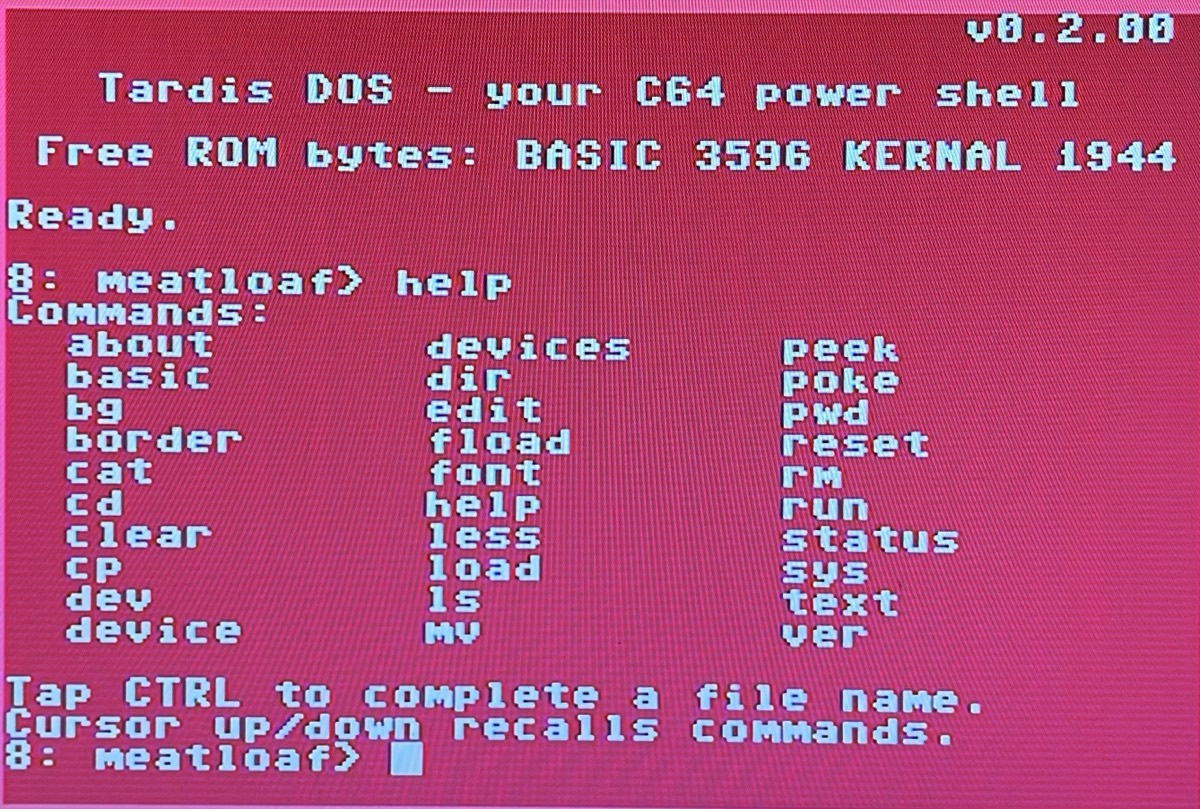
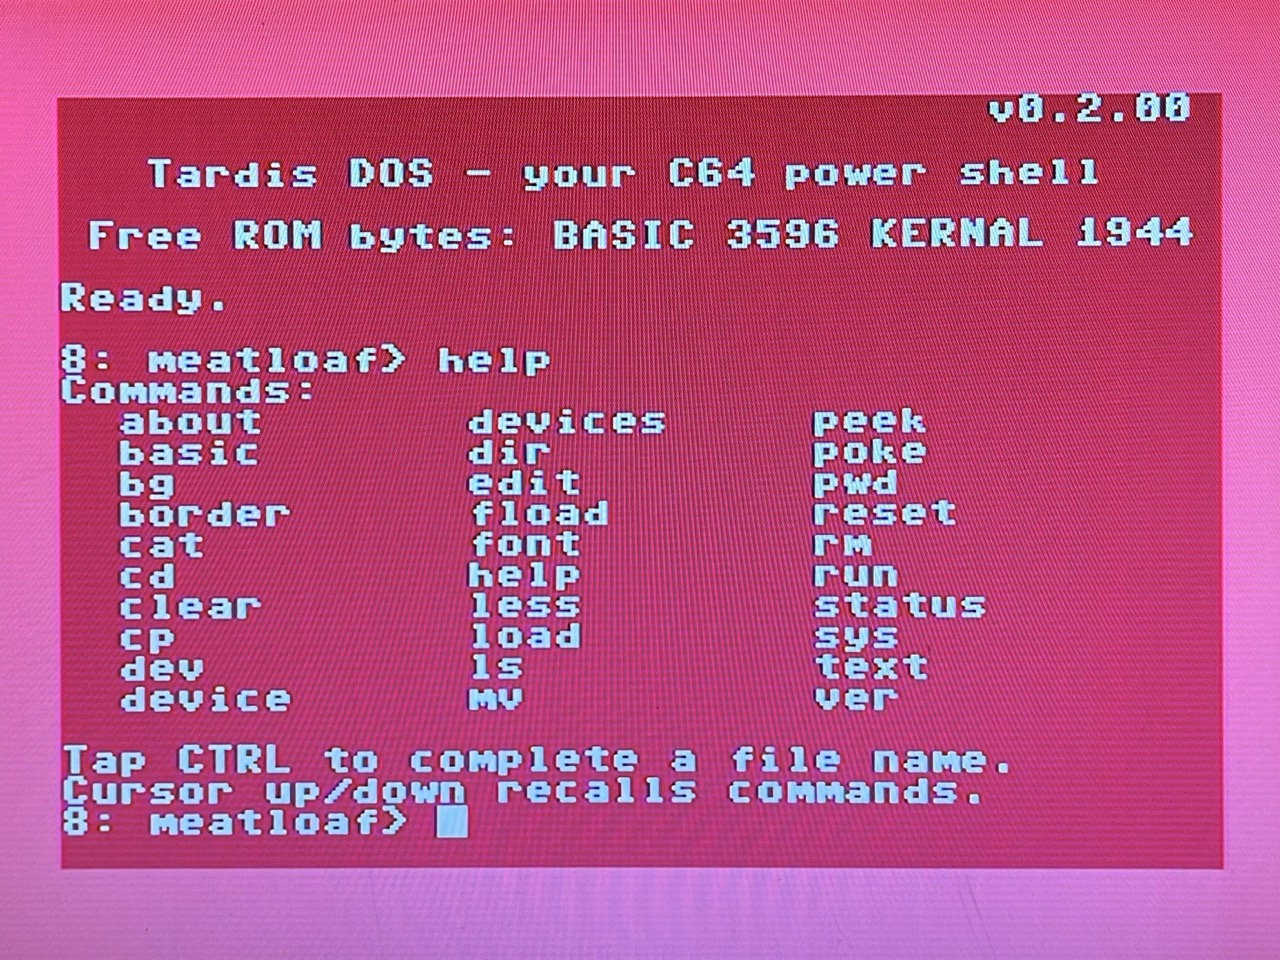
README: use the straighter screen photo, uncropped
Replaces the cropped shot with a straighter capture, left whole -- the CRT
border and surround stay in frame rather than being cropped to the screen
edge. Copied byte-for-byte rather than re-encoded, so it does not pick up a
second generation of JPEG artefacts over the CRT's dither.

Display width 620 -> 680 to compensate: with the border now inside the frame,
the screen area itself would otherwise render smaller than before.

Claude-Session: https://claude.ai/code/session_017h8w9Yh2m2oydvUNx3jt7C

diff --git a/README.md b/README.md
@@ -9,7 +9,7 @@
 Tardis DOS replaces the C64's stock BASIC + KERNAL with a modern command line: line editing, command history, file name tab-completion, a built-in fast loader, disk and file tools, a text editor, and more. Its served from a [OneROM](https://onerom.org/) — a flash-based ROM-replacement chip that drops into the C64's internal KERNAL/BASIC ROM sockets. It is **not** a cartridge, and it's **not** Linux. It's just your Commodore with shell commands that are familiar.
 
 <p align="center">
-  <img src="media/shell-help.jpg" alt="Tardis DOS running on a real C64: the boot banner, the help command listing every command in three columns, and the prompt showing the attached Meatloaf drive" width="620">
+  <img src="media/shell-help.jpg" alt="Tardis DOS running on a real C64: the boot banner, the help command listing every command in three columns, and the prompt showing the attached Meatloaf drive" width="680">
 </p>
 
 ## Bigger on the inside
